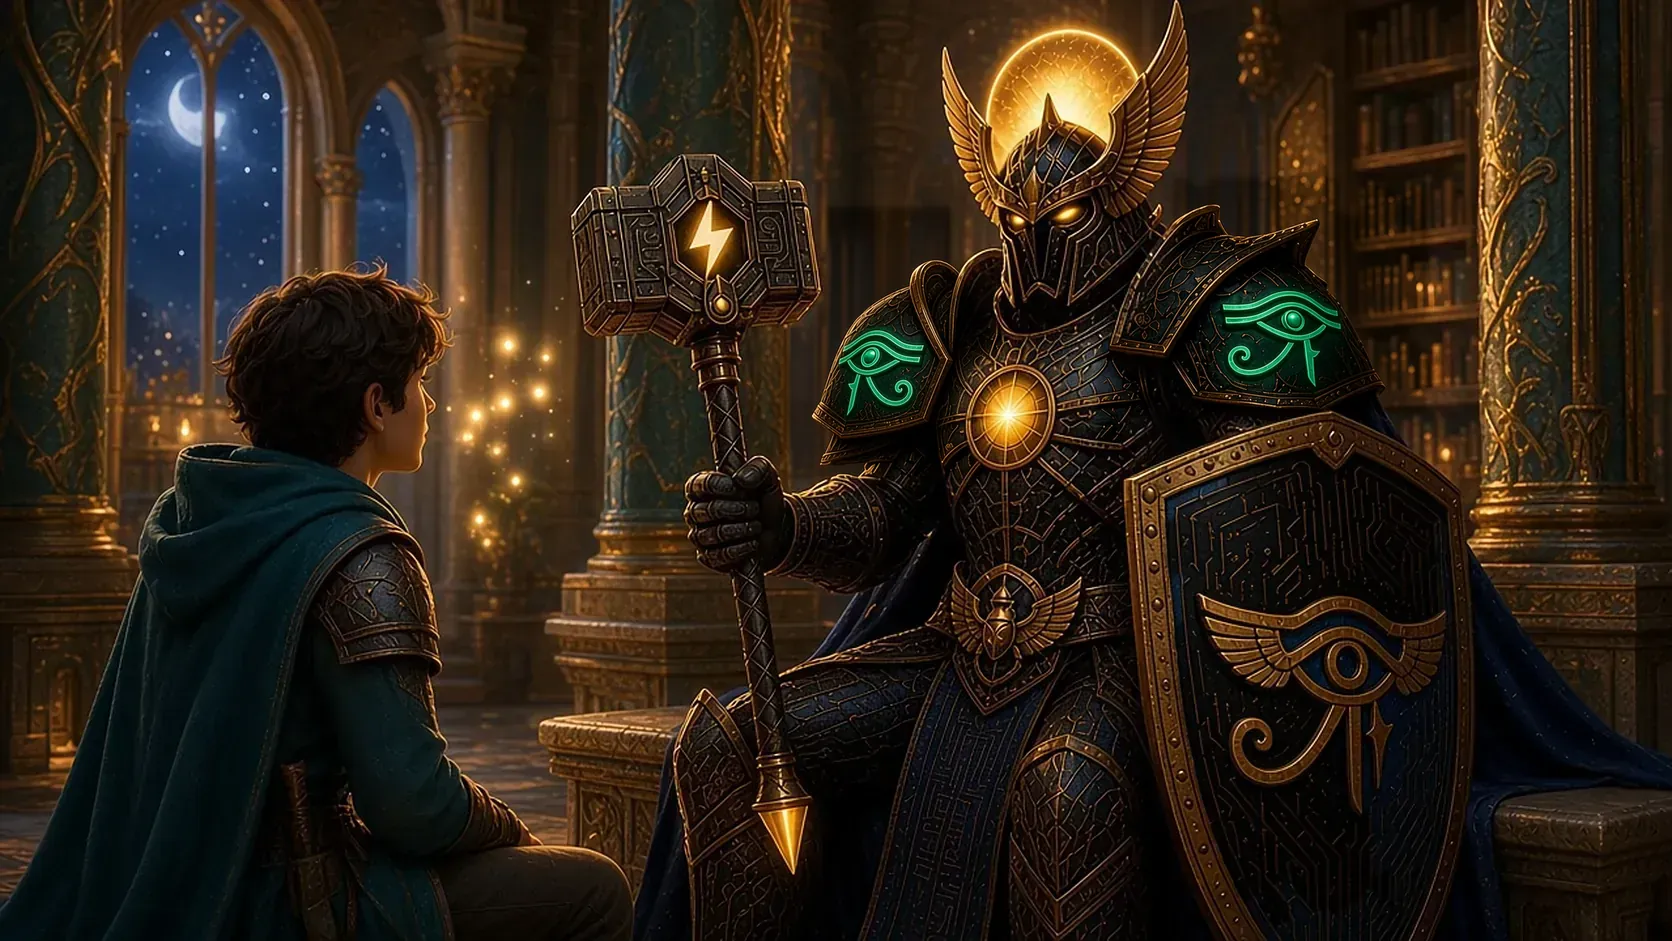
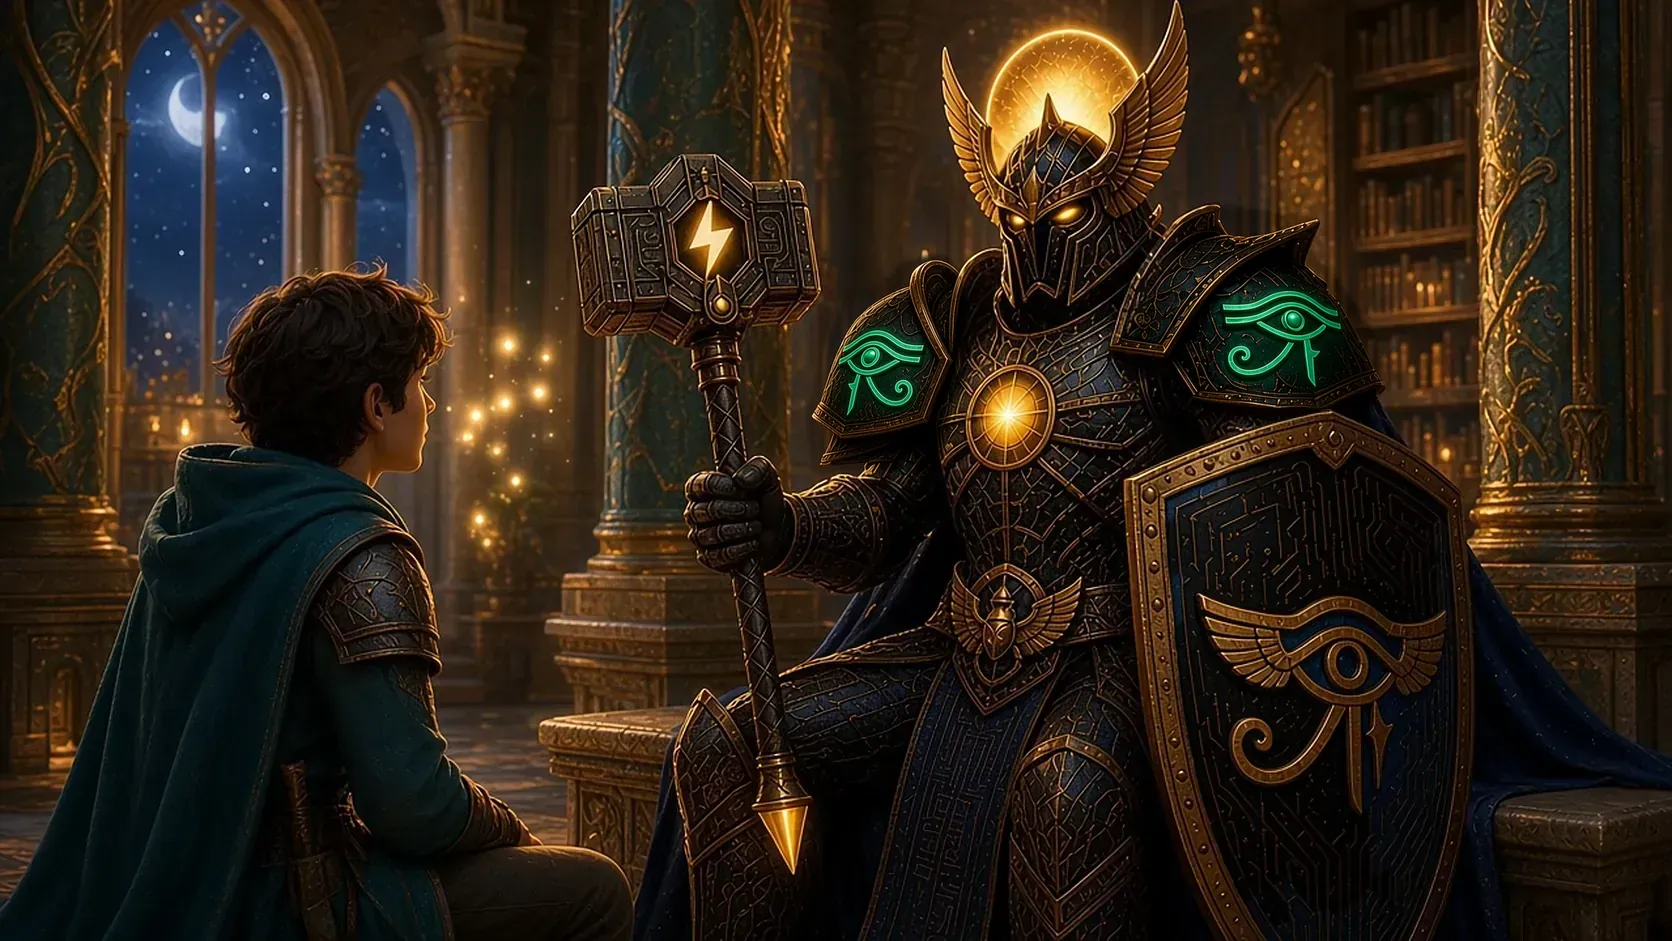
EYES-CANON-4: restore main background outside the new pauldrons and eyes; ART-CANON pupil and haft wording

diff --git a/docs/ART-CANON.md b/docs/ART-CANON.md
@@ -32,9 +32,9 @@ Scope: this rule covers the three reference heroes (whitepaper, employ.html, pil
 - **Glyph (Ruling, 9:08 PM):** Sherif wrote: "Need the opposite for the eye without the excessive lines and no double bottom curves." That means no excessive lines and no double bottom curves.
   - *Lead's reading of "the opposite":* near-shoulder eyes are drawn mirrored, facing the opposite way to the far-shoulder eye. This is an inference, not his words.
   - *Lead's inference on anatomy:* the glyph copies the shoulder eye in the whitepaper hero art, the doc cover in `assets/art/` (1280 and 768 webps) shown on `docs/WHITEPAPER_v4.3.html` (its file stem is not written here because `tests/hero-uniqueness.test.js` allows it only on the doc pages): one brow, one eye outline with a round pupil, one teardrop line and one spiral curl at the bottom. These details go beyond his words.
-- **Chat hero eyes and pauldrons (EYES-CANON-4, Sherif 8:34 and 8:36 AM ET Nov 26):** this replaces the open exception for the chat hero's far-shoulder eye, which was kept as shipped at about 8:10 AM. In the chat.html hero and its card thumbnail (new `-eyes2` stems), both shoulder eyes now copy the whitepaper hero's glyph: a brow line, an almond eye with a filled round pupil, one teardrop line with a small barb, and one spiral at the bottom. The double bottom curl on the far eye is gone.
+- **Chat hero eyes and pauldrons (EYES-CANON-4, Sherif 8:34 and 8:36 AM ET Nov 26):** this replaces the open exception for the chat hero's far-shoulder eye, which was kept as shipped at about 8:10 AM. In the chat.html hero and its card thumbnail (new `-eyes2` stems), both shoulder eyes now follow the whitepaper hero's glyph: a brow line, an almond eye with a round pupil, one teardrop line with a small barb, and one spiral at the bottom. The whitepaper pupil is a ring (an outlined circle). The new chat eyes draw it as a solid glowing green dot, as the pilot hero does. The double bottom curl on the far eye is gone.
   - *Lead's inference on direction:* the far (left-shoulder) eye faces the way the whitepaper, employ and pilot eyes do, with the spiral toward the neck. The near eye is its mirror image, as on the examples hero's two shoulders.
-  - *Pauldrons:* the near pauldron was a flat, pointed plate, smaller than the far one, which did not make sense. It is now a domed, layered black-and-gold pauldron that mirrors the far one and sits behind the hammer haft.
+  - *Pauldrons:* the near pauldron was a flat, pointed plate, smaller than the far one, which did not make sense. It is now a domed, layered black-and-gold pauldron that mirrors the far one and sits beside the hammer haft.
 - **Open exception, awaiting Sherif:** the examples.html hero (unchanged in EYES-CANON-3) still shows a large eye on his right pauldron. It is the standing picture Sherif sent at 6:01 PM as a good-eyes example (ref-1). Whether that placement stays, or follows the far-pauldron rule, is his call.
 
 ## Two suit styles (Ruling, 8:30 PM)
